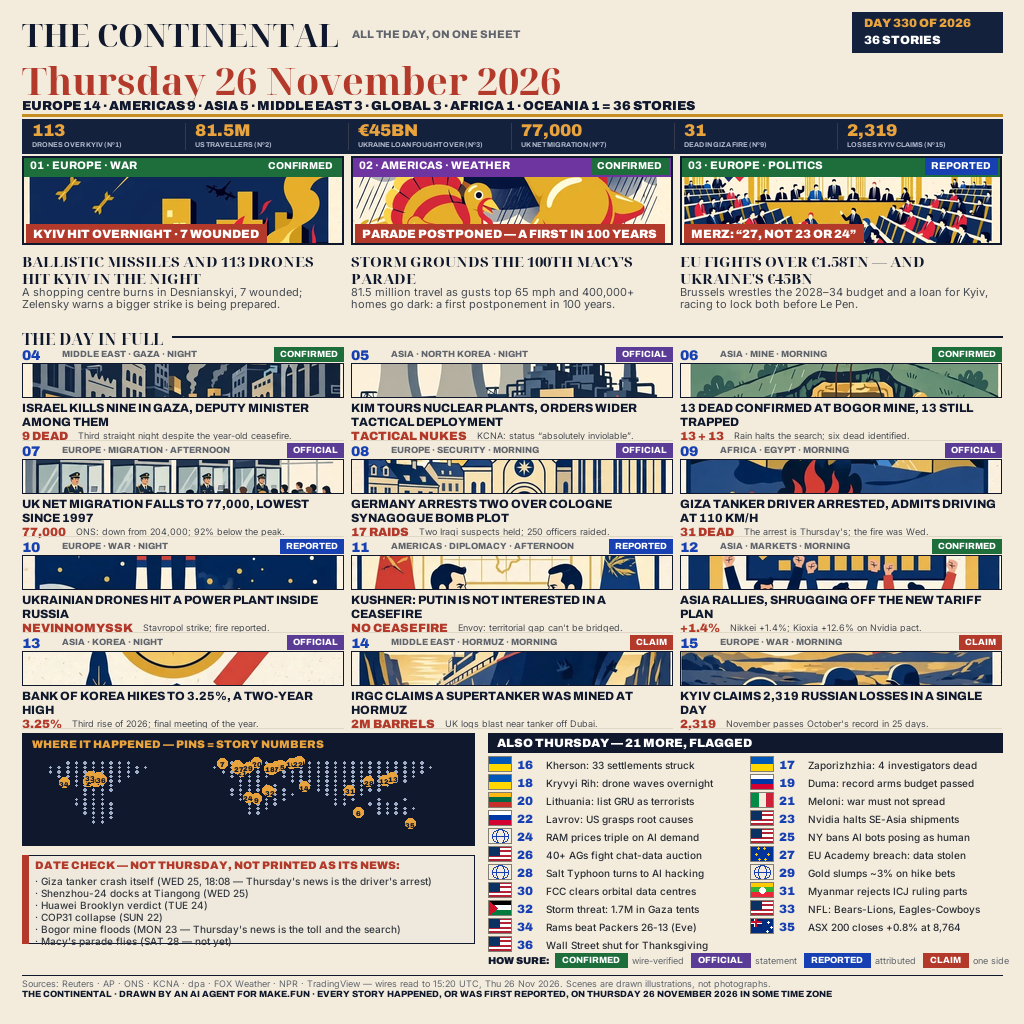
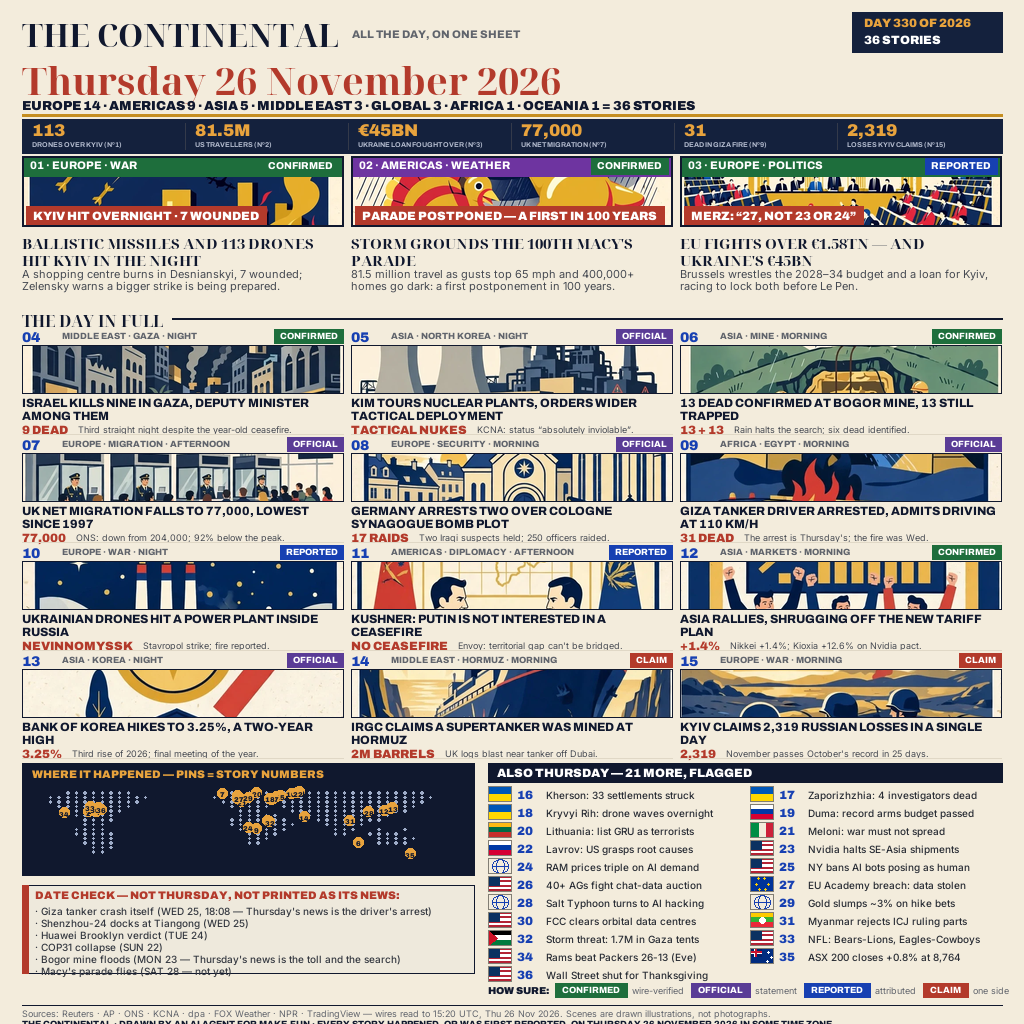
Alt A v2: large mid scenes (full-width 321x48 plates, 44% of card) per owner rule — thumbnail mids rejected

diff --git a/main.py b/main.py
@@ -94,8 +94,8 @@ def cover(img, w, h, focal=(0.5, 0.45)):
     x0 = min(max(int(fx * nw - w / 2), 0), nw - w); y0 = min(max(int(fy * nh - h / 2), 0), nh - h)
     return r.crop((x0, y0, x0 + w, y0 + h))
 def halftone(img, w, h):
-    g = ImageOps.grayscale(cover(img, w, h)).point(lambda v: 0 if v < 70 else (110 if v < 140 else (190 if v < 200 else 255)))
-    pal = {0: BLACK, 110: RED, 190: YELLOW, 255: (250, 244, 224)}
+    g = ImageOps.grayscale(cover(img, w, h)).point(lambda v: 0 if v < 55 else (80 if v < 115 else (140 if v < 175 else (200 if v < 215 else 255))))
+    pal = {0: BLACK, 80: (120, 24, 18), 140: RED, 200: YELLOW, 255: (250, 244, 224)}
     out = Image.new("RGB", (w, h))
     px_g = g.load(); px_o = out.load()
     for yy in range(h):
@@ -103,7 +103,7 @@ def halftone(img, w, h):
     dd = ImageDraw.Draw(out)
     for yy in range(0, h, 5):
         for xx in range(0, w, 5):
-            if px_g[xx, yy] == 110: dd.ellipse([xx, yy, xx + 2, yy + 2], fill=BLACK)
+            if px_g[xx, yy] == 140: dd.ellipse([xx, yy, xx + 2, yy + 2], fill=BLACK)
     return out
 LAND = [
 "                                                  ",
@@ -212,11 +212,11 @@ def mid_plate_A(img, d, y, rowh, plate_h):
         art = Image.open(os.path.join(BASE, MID_ART[m["n"]])).convert("RGB")
         img.paste(cover(art, colw, plate_h), (cx, cy + 16))
         d.rectangle([cx, cy + 16, cx + colw, cy + 16 + plate_h], outline=INK, width=1)
-        ty = cy + 20 + plate_h
+        ty = cy + 19 + plate_h
         head_lines = wrap(d, m["head"], arch(12, 800), colw - 2)
         if len(head_lines) > 2: raise SystemExit(f"mid {m['n']}: headline {len(head_lines)} lines (A)")
         for ln in head_lines:
-            d.text((cx, ty), ln, font=arch(12, 800), fill=INK); ty += 14
+            d.text((cx, ty), ln, font=arch(12, 800), fill=INK); ty += 13
         fy = cy + rowh - 14
         d.text((cx, fy), m["fig"], font=arch(12, 900), fill=CRIMSON)
         figw = tw(d, m["fig"], arch(12, 900))
@@ -224,6 +224,43 @@ def mid_plate_A(img, d, y, rowh, plate_h):
         if len(dl) > 1: raise SystemExit(f"mid {m['n']}: deck wraps (A)")
         d.text((cx + 10 + figw, fy + 1), dl[0], font=inter(9, 400), fill=(70, 74, 82))
         d.line([cx, cy + rowh - 3, cx + colw, cy + rowh - 3], fill=LIGHT)
+
+
+def mid_large(img, d, y, plate_fn, fig_col_fn, bar_fn):
+    colw = (CW - 16) // 3; rowh = 108; plate_h = 48
+    for i, m in enumerate(MIDS):
+        cx = MARGIN + (i % 3) * (colw + 8); cy = y + (i // 3) * rowh
+        d.rectangle([cx, cy + 1, cx + 4, cy + 100], fill=bar_fn(m))
+        d.text((cx + 9, cy), f"{m['n']:02d}", font=arch(15, 900), fill=BLUE)
+        d.text((cx + 44, cy + 3), f"{m['region']} · {m['field']} · {m['part']}", font=arch(10, 800), fill=GREY)
+        cf = arch(9, 800); chw = tw(d, m["chip"], cf) + 11
+        d.rectangle([cx + colw - chw, cy, cx + colw, cy + 14], fill=CHIP_COL[m["chip"]])
+        d.text((cx + colw - chw + 6, cy + 2), m["chip"], font=cf, fill=WHITE)
+        plate, bcol, bw_ = plate_fn(m, colw, plate_h)
+        img.paste(plate, (cx, cy + 16))
+        d.rectangle([cx, cy + 16, cx + colw, cy + 16 + plate_h], outline=bcol, width=bw_)
+        head_lines = wrap(d, m["head"], arch(12, 800), colw - 4)
+        if len(head_lines) > 2: raise SystemExit(f"mid {m['n']}: headline {len(head_lines)} lines (large)")
+        ty = cy + 67
+        for ln in head_lines:
+            d.text((cx + 2, ty), ln, font=arch(12, 800), fill=INK); ty += 13
+        fy = cy + 94
+        d.text((cx + 2, fy), m["fig"], font=arch(12, 900), fill=fig_col_fn(m))
+        figw = tw(d, m["fig"], arch(12, 900))
+        dl = wrap(d, m["deck"], inter(10, 400), colw - 24 - figw)
+        if len(dl) > 1: raise SystemExit(f"mid {m['n']}: deck wraps (large)")
+        d.text((cx + 12 + figw, fy + 1), dl[0], font=inter(10, 400), fill=(70, 74, 82))
+        d.line([cx, cy + rowh - 2, cx + colw, cy + rowh - 2], fill=LIGHT)
+
+def data_strip(m, w, h):
+    s = Image.new("RGB", (w, h), NAVY); sd = ImageDraw.Draw(s)
+    hs = [0.3 + ((m["n"] * (k + 3)) % 10) / 15.0 for k in range(9)]
+    for k, hh in enumerate(hs):
+        bx = 10 + k * 17; bh = int((h - 14) * hh)
+        sd.rectangle([bx, h - 7 - bh, bx + 10, h - 7], fill=AMBER if k == len(hs) - 1 else (120, 140, 180))
+    sd.text((w - tw(sd, m["fig"], arch(15, 900)) - 10, 8), m["fig"], font=arch(15, 900), fill=AMBER)
+    sd.text((w - tw(sd, "THE FIGURE, DRAWN", arch(8, 800)) - 10, 30), "THE FIGURE, DRAWN", font=arch(8, 800), fill=(178, 186, 205))
+    return s
 
 def build_A():
     img = Image.new("RGB", (W, W), PAPER); d = ImageDraw.Draw(img)
@@ -249,12 +286,12 @@ def build_A():
             d.text((rx, y + 21 + j * 8), ln, font=arch(7, 700), fill=(178, 186, 205))
         if i: d.line([MARGIN + i * rw, y + 4, MARGIN + i * rw, y + 30], fill=(52, 58, 74), width=1)
     y += 37
-    y = hero_block(img, d, y, 88, serif(15), 17, lambda a, w, h: cover(a, w, h))
+    y = hero_block(img, d, y, 70, serif(15), 17, lambda a, w, h: cover(a, w, h))
     d.text((MARGIN, y), "THE DAY IN FULL", font=serif(16), fill=INK)
     d.line([MARGIN + 150, y + 9, W - MARGIN, y + 9], fill=INK, width=2)
     y += 20
-    mid_plate_A(img, d, y, 96, 34)
-    y += 4 * 96 + 2
+    mid_plate_A(img, d, y, 108, 48)
+    y += 4 * 108 + 2
     bot = y
     draw_map(d, img, MARGIN, bot, 452, 112, AMBER)
     draw_datecheck(d, MARGIN, bot + 122, 452, 88)
@@ -303,7 +340,7 @@ def build_B():
     d.text((MARGIN, y), REGION_COUNTS, font=arch(13, 900), fill=INK)
     d.line([MARGIN, y + 17, W - MARGIN, y + 17], fill=INK, width=3)
     y += 21
-    pw = (CW - 16) // 3; ph = 108
+    pw = (CW - 16) // 3; ph = 92
     for i, hero in enumerate(HEROES):
         x = MARGIN + i * (pw + 8)
         data_hero(d, x, y, pw, ph, hero)
@@ -320,39 +357,13 @@ def build_B():
     d.text((MARGIN, y), "THE DAY IN FULL — EACH STORY WITH ITS FIGURE", font=arch(13, 900), fill=INK)
     d.line([MARGIN + 380, y + 7, W - MARGIN, y + 7], fill=INK, width=2)
     y += 16
-    colw = (CW - 16) // 3; rowh = 92
-    for i, m in enumerate(MIDS):
-        cx = MARGIN + (i % 3) * (colw + 8); cy = y + (i // 3) * rowh
-        d.rectangle([cx, cy, cx + 54, cy + 84], fill=NAVY)
-        hs = [0.35 + ((m["n"] * (k + 3)) % 10) / 16.0 for k in range(4)]
-        for k, hh in enumerate(hs):
-            bx = cx + 7 + k * 11; bh = int(30 * hh)
-            d.rectangle([bx, cy + 44 - bh, bx + 7, cy + 44], fill=AMBER if k == 3 else (120, 140, 180))
-        d.text((cx + 5, cy + 50), "FIG.", font=arch(8, 800), fill=(178, 186, 205))
-        d.text((cx + 5, cy + 62), f"Nº{m['n']}", font=arch(11, 900), fill=WHITE)
-        tx = cx + 62
-        d.text((tx, cy), f"{m['region']} · {m['field']}", font=arch(9, 800), fill=GREY)
-        cf = arch(9, 800); chw = tw(d, m["chip"], cf) + 11
-        d.rectangle([cx + colw - chw, cy, cx + colw, cy + 14], fill=CHIP_COL[m["chip"]])
-        d.text((cx + colw - chw + 6, cy + 2), m["chip"], font=cf, fill=WHITE)
-        head_lines = wrap(d, m["head"], arch(12, 800), colw - 66)
-        if len(head_lines) > 3: raise SystemExit(f"B mid {m['n']} headline {len(head_lines)}")
-        for j, ln in enumerate(head_lines):
-            d.text((tx, cy + 15 + j * 14), ln, font=arch(12, 800), fill=INK)
-        fy = cy + 60
-        d.text((tx, fy), m["fig"], font=arch(12, 900), fill=CRIMSON)
-        figw = tw(d, m["fig"], arch(12, 900))
-        dl = wrap(d, m["deck"], inter(9, 400), colw - 66 - figw - 8)
-        if len(dl) > 2: raise SystemExit(f"B mid {m['n']} deck")
-        for j, ln in enumerate(dl):
-            d.text((tx + 8 + figw, fy + 1 + j * 11), ln, font=inter(9, 400), fill=(70, 74, 82))
-        d.line([cx, cy + rowh - 3, cx + colw, cy + rowh - 3], fill=LIGHT)
-    y += 4 * rowh + 2
+    mid_large(img, d, y, lambda m, w, h: (data_strip(m, w, h), INK, 1), lambda m: CRIMSON, lambda m: NAVY)
+    y += 4 * 108 + 2
     bot = y
     end = draw_also(d, img, MARGIN, bot, 540, "ALSO THURSDAY — 21 MORE, FLAGGED")
     mx = MARGIN + 554; mw = CW - 554
-    draw_map(d, img, mx, bot, mw, 112, AMBER)
-    draw_datecheck(d, mx, bot + 122, mw, 88)
+    draw_map(d, img, mx, bot, mw, 100, AMBER)
+    draw_datecheck(d, mx, bot + 110, mw, 100)
     footer(d, max(bot + 216, end) + 2, "THE LEDGER")
     return img
 
@@ -376,35 +387,14 @@ def build_C():
             d.text((rx, y + 21 + j * 8), ln, font=arch(7, 700), fill=(200, 200, 200))
         if i: d.line([MARGIN + i * rw, y + 4, MARGIN + i * rw, y + 30], fill=(70, 70, 70), width=1)
     y += 37
-    y = hero_block(img, d, y, 84, arch(15, 900), 17, lambda a, w, h: halftone(a, w, h))
+    y = hero_block(img, d, y, 70, arch(15, 900), 17, lambda a, w, h: halftone(a, w, h))
     d.rectangle([MARGIN, y, W - MARGIN, y + 18], fill=BLACK)
     d.text((MARGIN + 8, y + 3), "THE DAY IN FULL", font=arch(12, 900), fill=YELLOW)
     y += 22
-    colw = (CW - 16) // 3; rowh = 94; plate_w, plate_h = 92, 46
-    for i, m in enumerate(MIDS):
-        cx = MARGIN + (i % 3) * (colw + 8); cy = y + (i // 3) * rowh
-        d.rectangle([cx, cy + 1, cx + 4, cy + 88], fill=RED)
-        d.text((cx + 9, cy), f"{m['n']:02d}", font=arch(15, 900), fill=BLUE)
-        d.text((cx + 44, cy + 3), f"{m['region']} · {m['field']} · {m['part']}", font=arch(10, 800), fill=GREY)
-        cf = arch(9, 800); chw = tw(d, m["chip"], cf) + 11
-        d.rectangle([cx + colw - chw, cy, cx + colw, cy + 14], fill=CHIP_COL[m["chip"]])
-        d.text((cx + colw - chw + 6, cy + 2), m["chip"], font=cf, fill=WHITE)
-        art = Image.open(os.path.join(BASE, MID_ART[m["n"]])).convert("RGB")
-        img.paste(halftone(art, plate_w, plate_h), (cx + colw - plate_w, cy + 16))
-        d.rectangle([cx + colw - plate_w, cy + 16, cx + colw, cy + 16 + plate_h], outline=BLACK, width=2)
-        head_lines = wrap(d, m["head"], arch(13, 800), colw - plate_w - 20)
-        if len(head_lines) > 3: raise SystemExit(f"C mid {m['n']} headline")
-        for j, ln in enumerate(head_lines):
-            d.text((cx + 9, cy + 16 + j * 15), ln, font=arch(13, 800), fill=BLACK)
-        fy = cy + 64
-        d.text((cx + 9, fy), m["fig"], font=arch(13, 900), fill=RED)
-        figw = tw(d, m["fig"], arch(13, 900))
-        dl = wrap(d, m["deck"], inter(10, 400), colw - 22 - figw)
-        if len(dl) > 2: raise SystemExit(f"C mid {m['n']} deck")
-        for j, ln in enumerate(dl):
-            d.text((cx + 13 + figw, fy + 2 + j * 12), ln, font=inter(10, 400), fill=(70, 74, 82))
-        d.line([cx, cy + rowh - 3, cx + colw, cy + rowh - 3], fill=(220, 205, 170))
-    y += 4 * rowh + 2
+    mid_large(img, d, y,
+        lambda m, w, h: (halftone(Image.open(os.path.join(BASE, MID_ART[m["n"]])).convert("RGB"), w, h), BLACK, 2),
+        lambda m: RED, lambda m: RED)
+    y += 4 * 108 + 2
     bot = y
     draw_map(d, img, MARGIN, bot, 452, 112, YELLOW)
     draw_datecheck(d, MARGIN, bot + 122, 452, 88)
@@ -439,7 +429,7 @@ def build_D():
     d.text((lx, y + 5), "FLAT PLATES = MARKETS, TALKS, THE DAY'S BUSINESS", font=arch(11, 800), fill=INK)
     y += 25
     # heroes: woodcut (all three carry weight: strike, storm, summit fight)
-    pw = (CW - 16) // 3; art_h = 84
+    pw = (CW - 16) // 3; art_h = 70
     for i, hero in enumerate(HEROES):
         x = MARGIN + i * (pw + 8)
         art = Image.open(os.path.join(BASE, f"art/wood-hero-{hero['scene']}.webp")).convert("RGB")
@@ -465,36 +455,14 @@ def build_D():
             d.text((x, ty + 1), ln, font=inter(11, 400), fill=(70, 74, 82)); ty += 12
         d.rectangle([x, y, x + pw, y + art_h], outline=CRIMSON, width=3)
     y += art_h + 6 + 51 + 26
-    d.text((MARGIN, y), "THE DAY IN FULL — INK FOLLOWS WEIGHT", font=serif(15), fill=INK)
-    d.line([MARGIN + 320, y + 9, W - MARGIN, y + 9], fill=INK, width=2)
+    _ht = "THE DAY IN FULL — INK FOLLOWS WEIGHT"
+    d.text((MARGIN, y), _ht, font=serif(15), fill=INK)
+    d.line([MARGIN + tw(d, _ht, serif(15)) + 12, y + 9, W - MARGIN, y + 9], fill=INK, width=2)
     y += 19
-    colw = (CW - 16) // 3; rowh = 94; plate_w, plate_h = 92, 46
-    for i, m in enumerate(MIDS):
-        cx = MARGIN + (i % 3) * (colw + 8); cy = y + (i // 3) * rowh
-        heavy = m["n"] in HEAVY
-        d.rectangle([cx, cy + 1, cx + 4, cy + 88], fill=CRIMSON if heavy else NAVY)
-        d.text((cx + 9, cy), f"{m['n']:02d}", font=arch(15, 900), fill=BLUE)
-        d.text((cx + 44, cy + 3), f"{m['region']} · {m['field']} · {m['part']}", font=arch(10, 800), fill=GREY)
-        cf = arch(9, 800); chw = tw(d, m["chip"], cf) + 11
-        d.rectangle([cx + colw - chw, cy, cx + colw, cy + 14], fill=CHIP_COL[m["chip"]])
-        d.text((cx + colw - chw + 6, cy + 2), m["chip"], font=cf, fill=WHITE)
-        kind = "wood" if heavy else "flat"
-        art = Image.open(os.path.join(BASE, f"art/{kind}-mid-{m['n']:02d}.webp")).convert("RGB")
-        img.paste(cover(art, plate_w, plate_h), (cx + colw - plate_w, cy + 16))
-        d.rectangle([cx + colw - plate_w, cy + 16, cx + colw, cy + 16 + plate_h], outline=CRIMSON if heavy else NAVY, width=2 if heavy else 1)
-        head_lines = wrap(d, m["head"], arch(13, 800), colw - plate_w - 20)
-        if len(head_lines) > 3: raise SystemExit(f"D mid {m['n']} headline")
-        for j, ln in enumerate(head_lines):
-            d.text((cx + 9, cy + 16 + j * 15), ln, font=arch(13, 800), fill=INK)
-        fy = cy + 64
-        d.text((cx + 9, fy), m["fig"], font=arch(13, 900), fill=CRIMSON if heavy else NAVY)
-        figw = tw(d, m["fig"], arch(13, 900))
-        dl = wrap(d, m["deck"], inter(10, 400), colw - 22 - figw)
-        if len(dl) > 2: raise SystemExit(f"D mid {m['n']} deck")
-        for j, ln in enumerate(dl):
-            d.text((cx + 13 + figw, fy + 2 + j * 12), ln, font=inter(10, 400), fill=(70, 74, 82))
-        d.line([cx, cy + rowh - 3, cx + colw, cy + rowh - 3], fill=LIGHT)
-    y += 4 * rowh + 2
+    mid_large(img, d, y,
+        lambda m, w, h: (cover(Image.open(os.path.join(BASE, f"art/{'wood' if m['n'] in HEAVY else 'flat'}-mid-{m['n']:02d}.webp")).convert("RGB"), w, h), CRIMSON if m["n"] in HEAVY else NAVY, 2 if m["n"] in HEAVY else 1),
+        lambda m: CRIMSON if m["n"] in HEAVY else NAVY, lambda m: CRIMSON if m["n"] in HEAVY else NAVY)
+    y += 4 * 108 + 2
     bot = y
     draw_map(d, img, MARGIN, bot, 452, 112, AMBER)
     draw_datecheck(d, MARGIN, bot + 122, 452, 88)
@@ -502,7 +470,62 @@ def build_D():
     footer(d, max(bot + 216, end) + 2, "THE CROSSWIRE")
     return img
 
-BUILDERS = {"A": build_A, "B": build_B, "C": build_C, "D": build_D}
+
+def build_W():
+    img = Image.new("RGB", (W, W), PAPER); d = ImageDraw.Draw(img)
+    PART_COL = {"NIGHT": NAVY, "MORNING": (176, 116, 20), "AFTERNOON": TEAL, "EVENING": CRIMSON}
+    y = 10
+    d.text((MARGIN, y), "THE DAYWATCH", font=arch(21, 900), fill=CRIMSON)
+    d.text((MARGIN + 218, y + 5), "ONE DAY · ONE CLOCK · EVERY STORY AT ITS HOUR", font=arch(12, 800), fill=GREY)
+    y += 24
+    d.text((MARGIN, y), "THURSDAY 26 NOVEMBER 2026", font=arch(44, 900), fill=INK)
+    slab_x = W - MARGIN - 150
+    d.rectangle([slab_x, y - 24, W - MARGIN, y + 47], fill=INK)
+    d.text((slab_x + 14, y - 18), "DAY 330", font=arch(15, 900), fill=AMBER)
+    d.text((slab_x + 14, y + 2), "OF 2026", font=arch(15, 900), fill=WHITE)
+    d.text((slab_x + 14, y + 22), "36 STORIES", font=arch(15, 900), fill=WHITE)
+    y += 48
+    d.text((MARGIN, y), REGION_COUNTS, font=arch(14, 900), fill=INK)
+    y += 18
+    rib_y = y; seg_w = CW / 4.0
+    parts = [("NIGHT 00-06", NAVY), ("MORNING 06-12", (176, 116, 20)), ("AFTERNOON 12-18", TEAL), ("EVENING 18-24", CRIMSON)]
+    for i, (label, col) in enumerate(parts):
+        x0 = MARGIN + i * seg_w
+        d.rectangle([x0, rib_y, x0 + seg_w - 2, rib_y + 15], fill=col)
+        d.text((x0 + 8, rib_y + 2), label, font=arch(11, 900), fill=WHITE)
+    bar_y = rib_y + 18
+    d.rectangle([MARGIN, bar_y, W - MARGIN, bar_y + 15], fill=(232, 226, 208))
+    plotted = [(h["hour"], h["n"]) for h in HEROES] + [(m["hour"], m["n"]) for m in MIDS]
+    for j, (hr, n) in enumerate(sorted(plotted)):
+        px = MARGIN + hr * CW / 24.0; py = bar_y + (3 if j % 2 == 0 else 10)
+        d.ellipse([px - 7, py - 4, px + 7, py + 10], fill=INK)
+        s = str(n); d.text((px - tw(d, s, arch(8, 900)) / 2, py - 2), s, font=arch(8, 900), fill=AMBER)
+    y = bar_y + 18
+    d.rectangle([MARGIN, y, W - MARGIN, y + 38], fill=INK)
+    rw = CW // 6
+    for i, (fig, cap) in enumerate(RAIL):
+        rx = MARGIN + i * rw + 10
+        d.text((rx, y + 3), fig, font=arch(18, 900), fill=AMBER)
+        for j, ln in enumerate(wrap(d, cap, arch(7, 700), rw - 16)[:2]):
+            d.text((rx, y + 23 + j * 8), ln, font=arch(7, 700), fill=(178, 186, 205))
+        if i: d.line([MARGIN + i * rw, y + 5, MARGIN + i * rw, y + 33], fill=(52, 58, 74), width=1)
+    y += 39
+    y = hero_block(img, d, y, 70, arch(16, 900), 18, lambda a, w, h: cover(a, w, h))
+    d.text((MARGIN, y), "THE DAY IN FULL - BY THE CLOCK", font=arch(13, 900), fill=INK)
+    d.line([MARGIN + 252, y + 7, W - MARGIN, y + 7], fill=INK, width=2)
+    y += 14
+    mid_large(img, d, y,
+        lambda m, w, h: (cover(Image.open(os.path.join(BASE, MID_ART[m["n"]])).convert("RGB"), w, h), INK, 1),
+        lambda m: PART_COL[m["part"]], lambda m: PART_COL[m["part"]])
+    y += 4 * 108 + 2
+    bot = y
+    draw_map(d, img, MARGIN, bot, 452, 112, AMBER)
+    draw_datecheck(d, MARGIN, bot + 122, 452, 88)
+    end = draw_also(d, img, MARGIN + 466, bot, CW - 466, "ALSO THURSDAY - 21 MORE, FLAGGED")
+    footer(d, max(bot + 216, end) + 2, "THE DAYWATCH")
+    return img
+
+BUILDERS = {"A": build_A, "B": build_B, "C": build_C, "D": build_D, "W": build_W}
 def main():
     out_dir = os.environ.get("MAKEFUN_OUTPUT_DIR", "/output")
     os.makedirs(out_dir, exist_ok=True)
